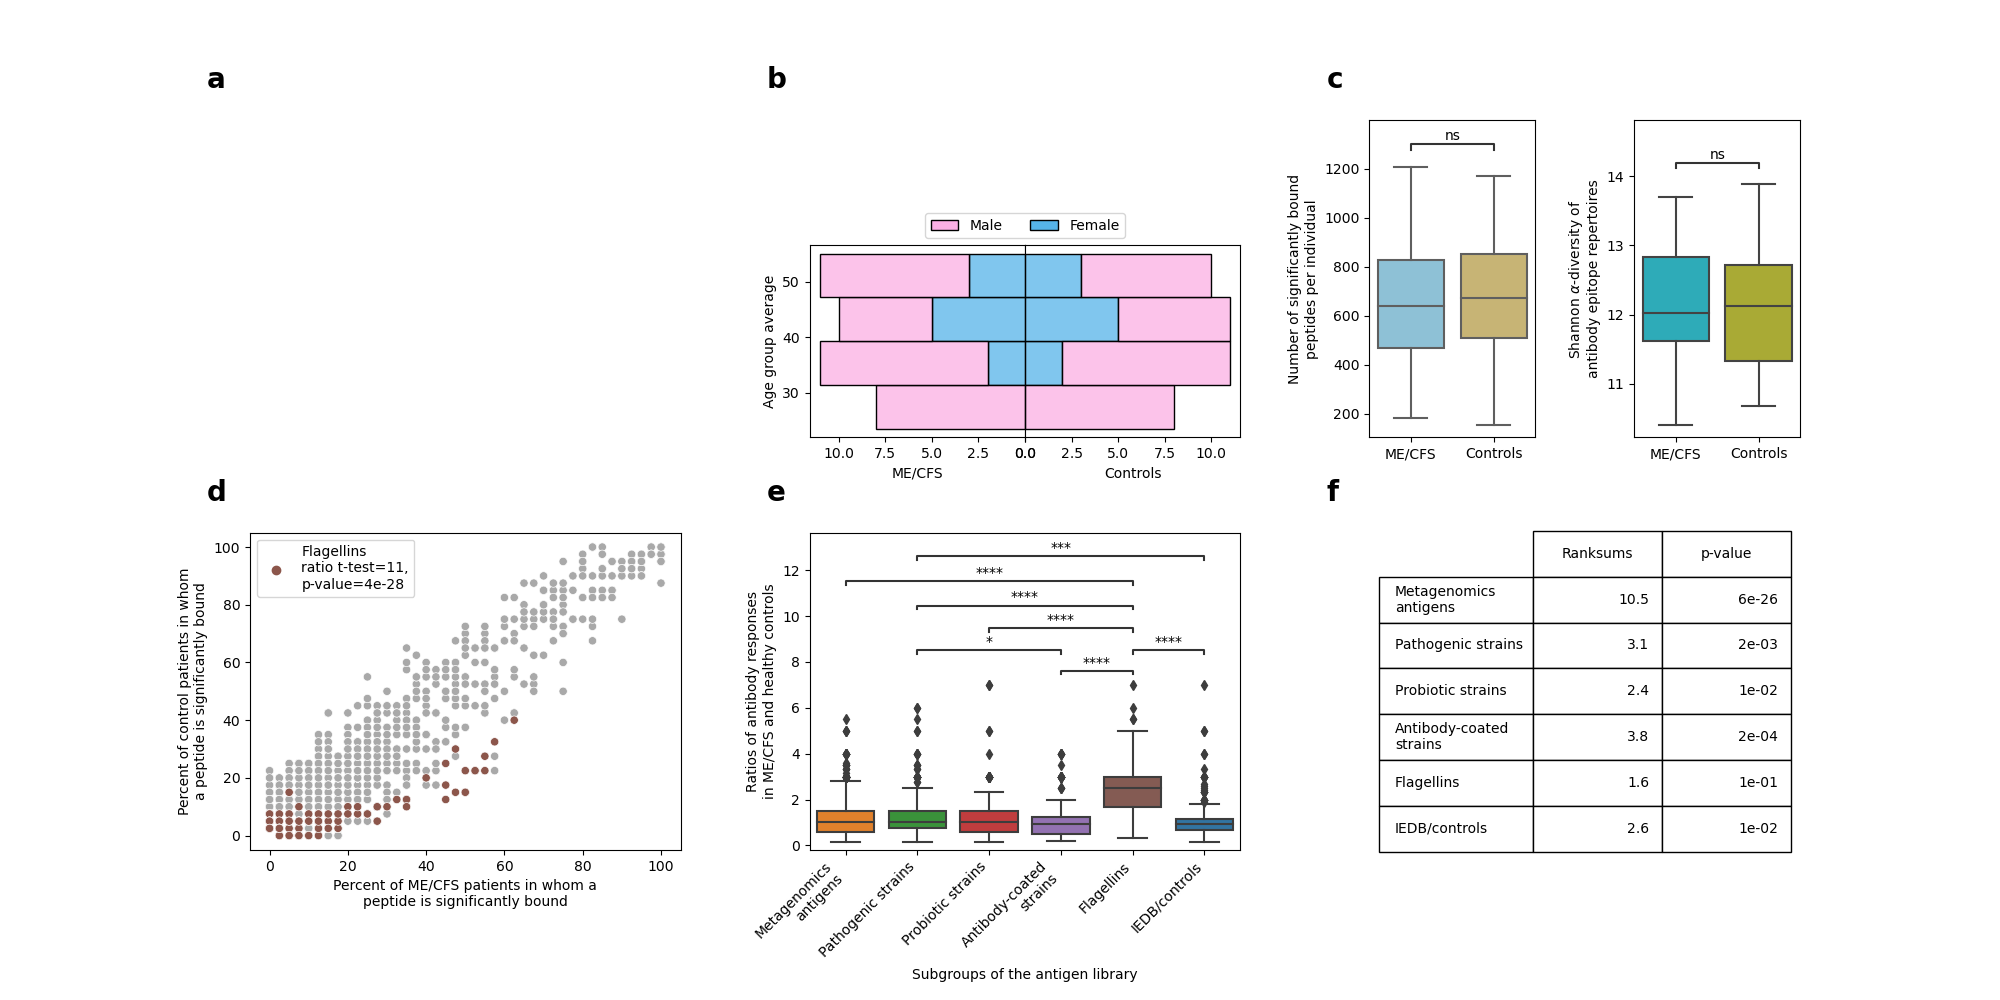
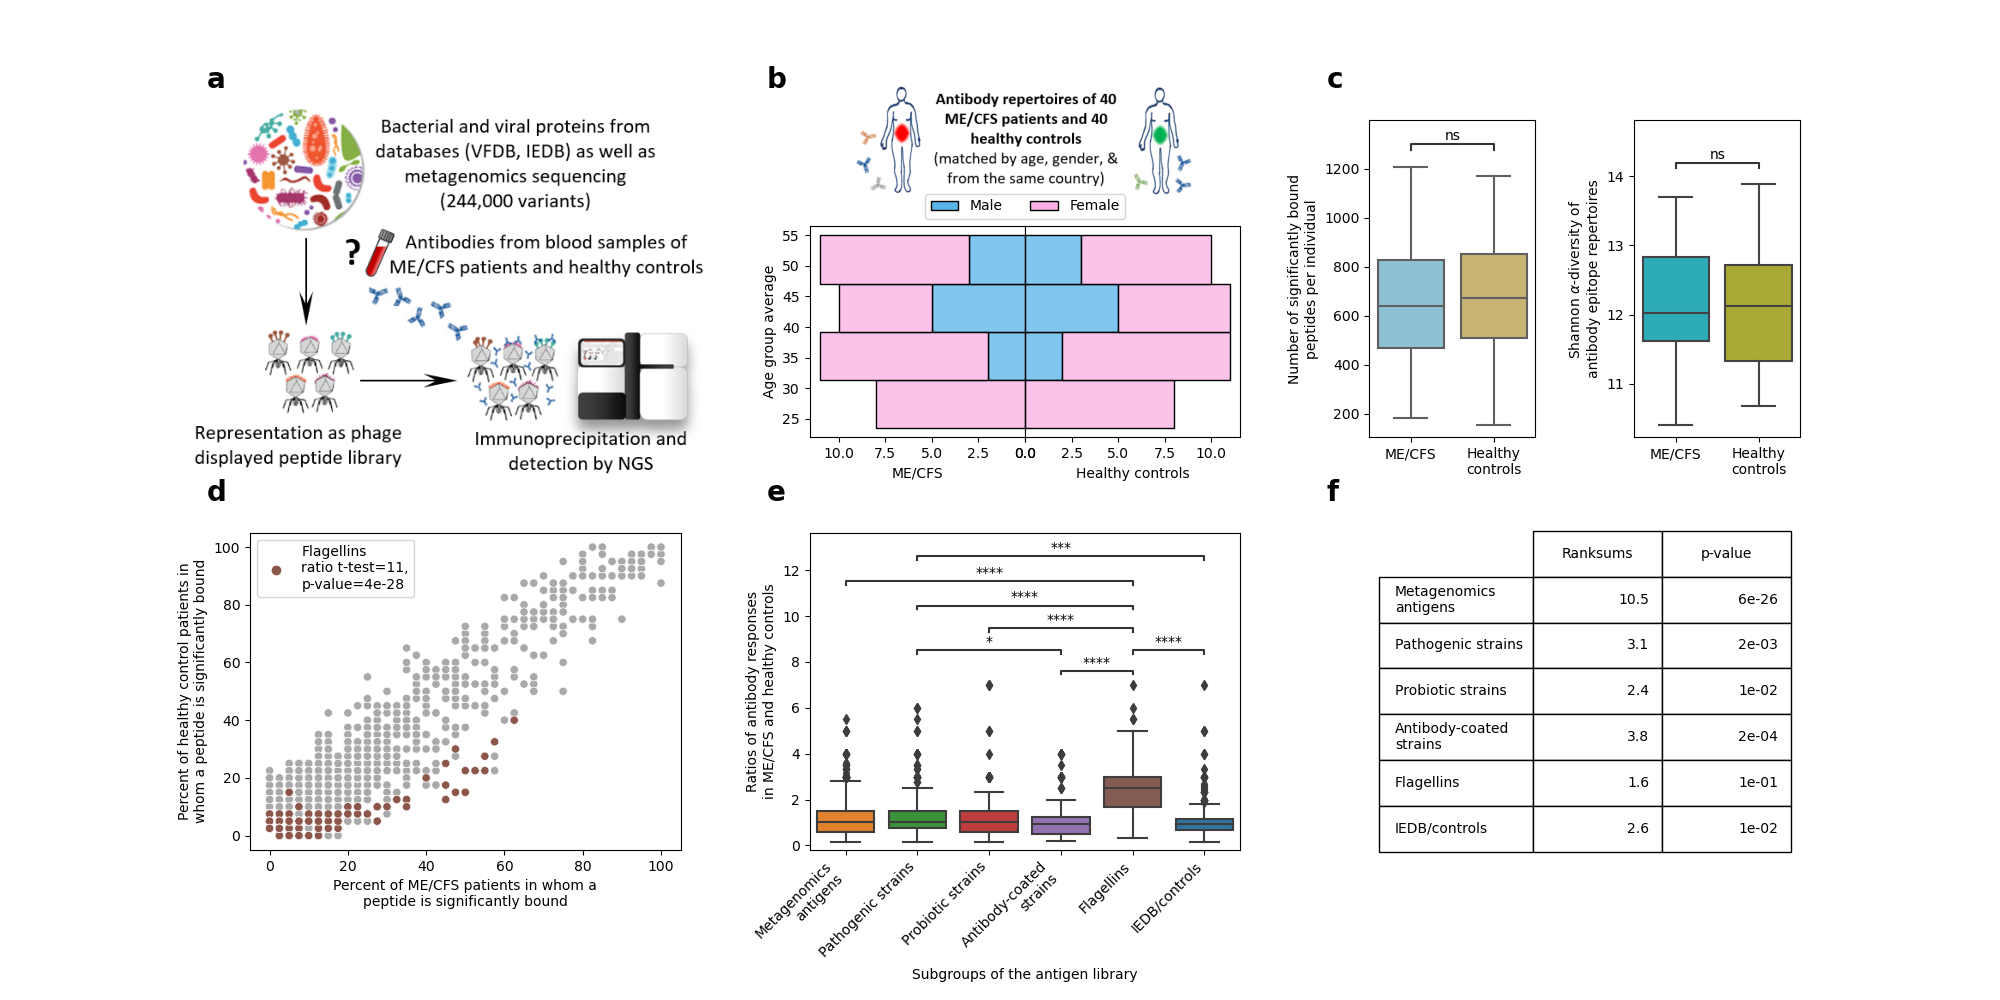
adding had drawn plots to figure 1

diff --git a/PhageIPSeq_CFS/Figures_scripts/figure_1.py b/PhageIPSeq_CFS/Figures_scripts/figure_1.py
@@ -9,6 +9,9 @@ from scipy import stats
 from skbio.diversity.alpha import shannon
 from statannot import add_stat_annotation
 from statsmodels.stats.multitest import multipletests
+import matplotlib.image as mpimg
+from PIL import Image
+
 
 from PhageIPSeq_CFS.config import visualizations_dir, oligo_families, oligo_families_colors, oligos_group_to_name
 from PhageIPSeq_CFS.helpers import get_data_with_outcome, get_oligos_metadata, split_xy_df_and_filter_by_threshold, \
@@ -25,6 +28,15 @@ def create_figure_1(overwrite=True):
     ax = fig.add_subplot(spec[0, 0])
     ax.set_axis_off()
     ax.text(-0.1, 1.1, string.ascii_lowercase[0], transform=ax.transAxes, size=20, weight='bold')
+    bounds = list(ax.get_position().bounds)
+    bounds[0] -= 0.03
+    bounds[1] -= 0.02
+    bounds[3] *= 1.1
+    bounds[2] *= 1.2
+    ax = fig.add_axes(bounds)
+    ax.set_axis_off()
+    img = mpimg.imread(os.path.join(figures_dir, "Fig.1a.png"))
+    ax.imshow(img, origin='upper')
 
     # sub-figure b - cohort info
     cohort_info = get_individuals_metadata_df()[['catrecruit_Binary', 'sex_Binary', 'agegroup_Average']]
@@ -32,15 +44,21 @@ def create_figure_1(overwrite=True):
     ax = fig.add_subplot(spec[0, 1])
     ax.text(-0.1, 1.1, string.ascii_lowercase[1], transform=ax.transAxes, size=20, weight='bold')
     ax.set_axis_off()
-    internal_spec = spec[0, 1].subgridspec(2, 1, height_ratios=[1, 8])
+    internal_spec = spec[0, 1].subgridspec(2, 1, height_ratios=[1, 8], hspace=0)
     # adding empty space for table on cohort info
     ax = fig.add_subplot(internal_spec[0])
     ax.set_axis_off()
-
+    bounds = list(ax.get_position().bounds)
+    bounds[1] -= 0.04
+    bounds[3] *= 3
+    ax = fig.add_axes(bounds)
+    ax.set_axis_off()
+    img = mpimg.imread(os.path.join(figures_dir, "Fig.1b.png"))
+    ax.imshow(img, origin='upper')
     internal_figure_spec = internal_spec[1].subgridspec(2, 2, wspace=0, hspace=0, height_ratios=[1, 3])
     ax = fig.add_subplot(internal_figure_spec[1, 0])
     sns.histplot(data=cohort_info[cohort_info['catrecruit_Binary'].eq(1)],
-                 y='agegroup_Average', hue='Sex',
+                 y='agegroup_Average', hue='Sex', hue_order=['Female', 'Male'],
                  palette=[sns.color_palette("colorblind")[-4], sns.color_palette("colorblind")[-1]],
                  multiple="stack", bins=4, ax=ax, legend=False)
     ax.set_ylabel('Age group average')
@@ -50,18 +68,18 @@ def create_figure_1(overwrite=True):
     ax = fig.add_subplot(internal_figure_spec[1, 1], sharey=ax)
     ax.get_yaxis().set_visible(False)
     ax = sns.histplot(data=cohort_info[cohort_info['catrecruit_Binary'].eq(0)], y='agegroup_Average',
-                      bins=4,
+                      bins=4, hue_order=['Female', 'Male'],
                       palette=[sns.color_palette("colorblind")[-4], sns.color_palette("colorblind")[-1]],
                       hue='Sex',
                       multiple="stack", legend=False,
                       ax=ax)
 
-    ax.set_xlabel('Controls')
+    ax.set_xlabel('Healthy controls')
     ax = fig.add_subplot(internal_figure_spec[0, :])
     ax.set_axis_off()
     ax.legend(
-        handles=[mpatches.Patch(facecolor=sns.color_palette("colorblind")[-4], label='Male', edgecolor='black'),
-                 mpatches.Patch(facecolor=sns.color_palette("colorblind")[-1], label='Female', edgecolor='black')],
+        handles=[mpatches.Patch(facecolor=sns.color_palette("colorblind")[-1], label='Male', edgecolor='black'),
+                 mpatches.Patch(facecolor=sns.color_palette("colorblind")[-4], label='Female', edgecolor='black')],
         loc='lower center', ncol=2)
 
     # sub-figure c
@@ -69,11 +87,11 @@ def create_figure_1(overwrite=True):
     ax.set_axis_off()
     ax.text(-0.1, 1.1, string.ascii_lowercase[2], transform=ax.transAxes, size=20, weight='bold')
     df = get_data_with_outcome(data_type='exist').sum(axis=1).reset_index(0).rename(columns={0: 'num_oligos'})
-    df['status'] = df['is_CFS'].astype(bool).apply(lambda x: 'ME/CFS' if x else 'Controls')
+    df['status'] = df['is_CFS'].astype(bool).apply(lambda x: 'ME/CFS' if x else 'Healthy\ncontrols')
 
     df2 = get_data_with_outcome().fillna(1)
     df2['shannon_div'] = df2.apply(lambda row: shannon(row), axis=1)
-    df2['status'] = df2.reset_index()['is_CFS'].astype(bool).apply(lambda x: 'ME/CFS' if x else 'Controls').values
+    df2['status'] = df2.reset_index()['is_CFS'].astype(bool).apply(lambda x: 'ME/CFS' if x else 'Healthy\ncontrols').values
 
     internal_figure_spec = spec[0, 2].subgridspec(1, 2, wspace=0.6)
     ax = fig.add_subplot(internal_figure_spec[0])
@@ -81,7 +99,7 @@ def create_figure_1(overwrite=True):
     ax.set_xlabel('')
     ax.set_ylabel('Number of significantly bound\npeptides per individual')
     add_stat_annotation(data=df, x='status', y='num_oligos', ax=ax,
-                        box_pairs=[['ME/CFS', 'Controls']], test='Mann-Whitney'
+                        box_pairs=[['ME/CFS', 'Healthy\ncontrols']], test='Mann-Whitney'
                         )
 
     ax = fig.add_subplot(internal_figure_spec[1])
@@ -89,14 +107,14 @@ def create_figure_1(overwrite=True):
     ax.set_xlabel('')
     ax.set_ylabel(r'Shannon $\alpha$-diversity' +' of\nantibody epitope repertoires')
     add_stat_annotation(data=df2, x='status', y='shannon_div', ax=ax,
-                        box_pairs=[['ME/CFS', 'Controls']], test='Mann-Whitney'
+                        box_pairs=[['ME/CFS', 'Healthy\ncontrols']], test='Mann-Whitney'
                         )
 
     # sub-figure d - scatter plot of expression
     ax = fig.add_subplot(spec[1, 0])
     df = get_data_with_outcome(data_type='exist')
     cfs_label = 'Percent of ME/CFS patients in whom a\npeptide is significantly bound'
-    healthy_label = 'Percent of control patients in whom\na peptide is significantly bound'
+    healthy_label = 'Percent of healthy control patients in\nwhom a peptide is significantly bound'
     df['disease_status'] = df.reset_index()['is_CFS'].astype(bool).apply(
         lambda x: cfs_label if x else healthy_label).values
     df = df.groupby('disease_status').mean().mul(100).T
